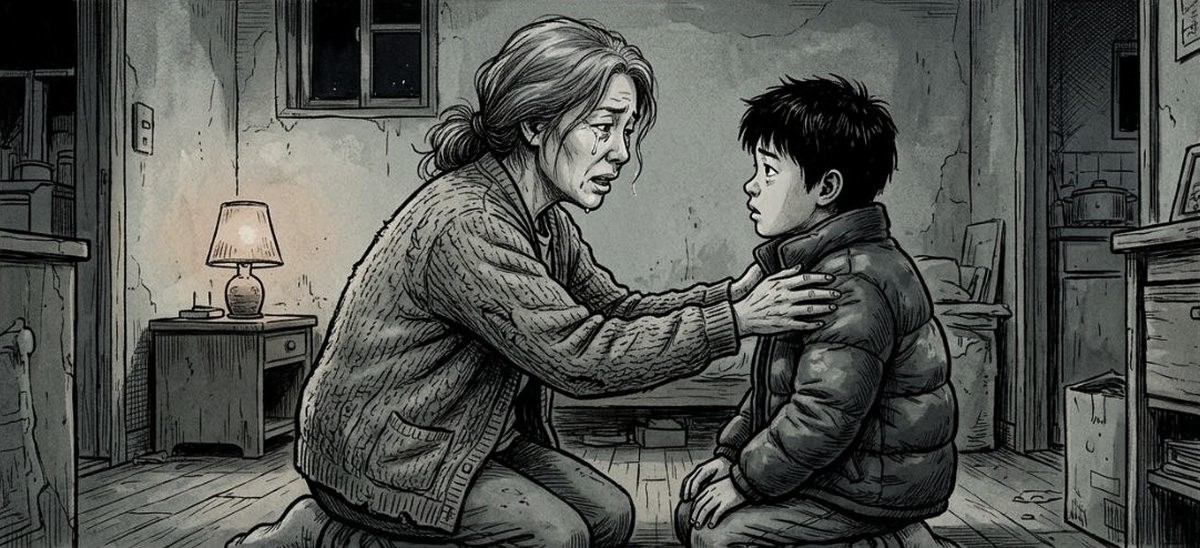
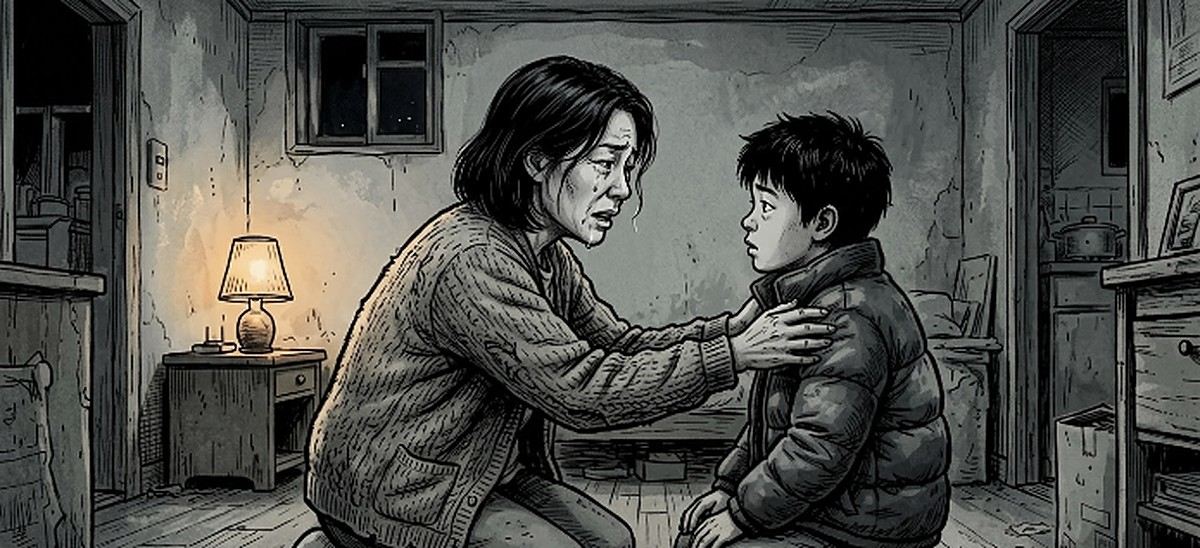
12화 유진 엄마·아빠 얼굴 통일(검은 머리 중년), 문 앞 실외 컷 방독면 추가
Claude-Session: https://claude.ai/code/session_018twa3QMQYz3PY4RAJxVLUb

diff --git a/ep09/index.html b/ep09/index.html
@@ -287,7 +287,7 @@ html.mo .snd{animation:mo-fade 1s ease-out 1.2s backwards}
     <div class="p"><img src="zs06.jpg" alt="쓰러진 남자 옆에서 호출기를 횃불에 비춰 드는 깡패, 뒤에서 손짓하는 두목"><div class="bub sm br" style="left:58%;top:5%">하나 건졌다!</div><div class="bub sm bl" style="left:3%;top:4%">다음 집.</div></div>
   <div class="p tight"><img src="k2m.jpg" alt="불탄 집 벽에 그려진 호출기 표시"><div class="cap" style="left:3%;top:5%">콜 헌터가 털고 간 집</div></div>
   <div class="gap" style="height:clamp(140px,26vw,220px)">그날 · 유진이 없는 집</div>
-  <div class="p"><img src="k3.jpg" alt="판자 틈으로 지나가는 횃불을 보는 엄마와 아빠"><div class="bub br" style="left:4.7%;top:52.5%">차라리 이거 숨겨 놓자.<br>놈들이 오기 전에.</div></div>
+  <div class="p"><img src="k3.jpg" alt="판자 틈으로 지나가는 횃불을 보는 엄마와 아빠"><div class="bub br" style="left:2%;top:66%">차라리 이거 숨겨 놓자.<br>놈들이 오기 전에.</div></div>
     <div class="p"><img src="zs07.jpg" alt="판자 창가에서 아빠가 2층 옷장을 턱으로 가리키며 말함"><div class="bub sm br" style="left:58%;top:5%">놈들도 감염된 건 안 열어.</div><div class="bub sm bl" style="left:3%;top:4%">…그게 무슨 말이에요.</div></div>
   <div class="rec">“쏴. 그냥 쏴.”<br>엄마는 쏘지 못했다.</div>
   <div class="p"><img src="g24.jpg" alt="울면서 옷장 문에 판자를 못질하는 엄마"><div class="sfx" style="left:6%;top:10%;transform:rotate(-8deg)">쾅</div></div>
